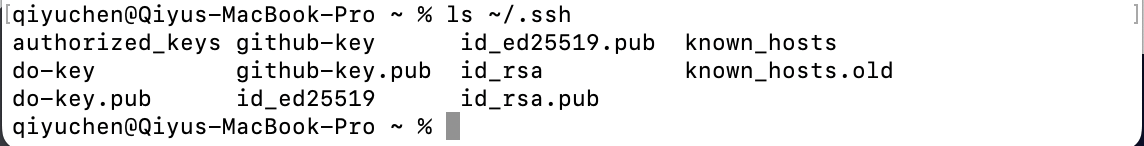
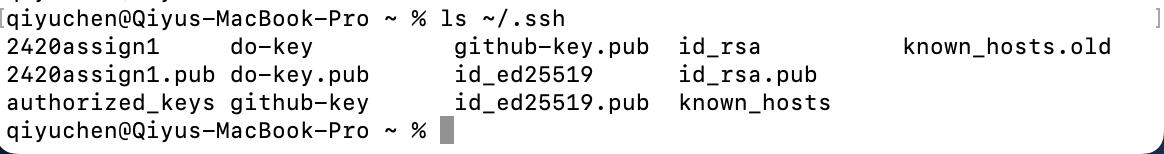
more changes for step 5

diff --git a/README.md b/README.md
@@ -1,5 +1,5 @@
-# 2420-Assignment-1 
----
+# ACIT 2420 Assignment 1 
+
 Name: Qiyu (Ivy) Chen  
 
 StudentID: A01338328
@@ -9,8 +9,6 @@ StudentID: A01338328
 # Setting up a  Remote Sever with DigitalOcean  
 
 ## Learning Objecitves:
-
-In this tutorial, you will be guided through the process of creating and managing a remote server using DigitalOcean. You will learn how to install and configure doctl on an existing droplet, generate SSH keys, and use them to securely connect to a remote server. Additionally, you will create a Droplet running Arch Linux, configure it with doctl and cloud-init, and apply best practices for server management and security.<mark>(to be changed)
 
  By compeleting this tutorial, you will learn: 
 
@@ -44,11 +42,13 @@ In this tutorial, you will be guided through the process of creating and managin
 
 3. Creating a Project and Droplet in DigitalOcean
 
-4. Installing `doctl` Command-line Tool
+4. Connect to Your Droplet via SSH
 
-5. Creating cloud-init file
+5. Installing `doctl` Command-line Tool
 
-6. Creating a Droplet Using doctl (with the cloud-init file)
+6. Creating cloud-init file
+
+7. Creating a Droplet Using doctl (with the cloud-init file)
 
 
 
@@ -79,12 +79,12 @@ To create a SSH key pair on your local machine:
 
 2. Run the following command to create your SSH key pair:
 ```
-ssh-keygen -t ed25519 -f ~/.ssh/do-key -C "your_email@example.com"
+ssh-keygen -t ed25519 -f ~/.ssh/2420assignment1 -C "your_email@example.com"
 ```
 
 t ed25519: Specifies the type of key to create (ed25519 is recommended for security).
 
-f ~/.ssh/do-key: Specifies the file in which to save the private key. The public key will be saved with the same name but with a .pub extension.
+f ~/.ssh/2420assignment1: Specifies the file in which to save the private key. The public key will be saved with the same name but with a .pub extension.
 
 C "your_email@example.com": Adds a label to your key, typically your email address. 
 
@@ -98,7 +98,9 @@ ls ~/.ssh
 Output will look like this  
 
 ![list key](assets/list-key.png)
-You should see `do-key` (the private key) and `do-key.pub` (the public key) listed.
+
+You should see **2420assign1** (the private key) and **2420assign1.pub** (the public key) listed.
+
 
 ## 2. Adding SSH Key to DigitalOcean
 
@@ -106,7 +108,7 @@ After creating your SSH key pair, the next step is to add the public key to your
 
 1. Copy your SSH public key: On your terminal, run the following command to direclty copy your public key:
 ```
-cat ~/.ssh/do-key.pub
+pbcopy < ~/.ssh/2420assign1.pub
 ```
 2. Once copied your key, log in to your [DigitalOcean](https://www.digitalocean.com/) account. 
 
@@ -132,86 +134,120 @@ To create project:
 2. In the **Project Name** field, enter a name for your project.
 - You can optionally add a description to help you remember what this project is about.
 
-3. Click **Create Projec** to save your new project.
+3. Click **Create Projec** to save your new project.  
 
-4. You should see your created project appear on the left side bar under **Projects** .
+4. You should see your created project appear on the left side bar under **Projects**.  
+
 ![project](assets/create-project.png)
 
 To created a droplet:
 
 1. From your project dashboard, click the **Create** button and select **Droplets** in the dropdown menu. 
 
-![create droplet](assets/create-droplet.png)
-
 2. In the **Choose Region** section, select a region that is geographically closest to you.
 
-![region](assets/region.png)
-
 3. Under the **Choose an image** section, select **Custom images**, click **Add image** and upload the Arch Linux that you have previously downloaded. 
-
-![image](assets/choose-image.png)
 
 4. In the **Choose a plan** section, select the plan that suits your needs. 
 
 5. Under the **Authentication** section, choose the **SSH Keys** option, and select the SSH key you added earlier from the list.
 
-![auth](assets/add-ssh-key.png)
-
 6. You can optionally choose additional settings like enabling backups, adding block based on your needs. 
 
 7. Click the **Create Droplet** button at the bottom when you’re satisfied with your settings. 
 
-8. You can view your droplet under **Resource** tab in your project homepage. 
+8. You can view your droplet under **Resource** tab in your project homepage.  
 
-![droplet](assets/create-droplet2.png)
+![droplet](assets/create-droplet.png)
 
-## 4. Installing `doctl` Command-line Tool
+## 4. Connect to Your Droplet via SSH
+
+After you have created a droplet you can connect to it via SSH by running the following command: 
+```
+ssh -i .ssh/2420assign1 arch@your-droplets-ip-address
+```
+- Replace **your-droplets-ip-address** with the actual ip adress that you just created from step 3.
+
+Output will look like this:
+
+![connect](assets/connet.png)
+
+
+## 5. Installing `doctl` Command-line Tool
 
 ### What is `doctl`
 
 - `doctl` is the official DigitalOcean command line interface (CLI). It allows you to interact with the DigitalOcean API via the command line. 
 
 ### Why Install `doctl`
-- It supports most functionality found in the control panel. You can create, configure, and destroy DigitalOcean resources like Droplets, Kubernetes clusters, firewalls, load balancers, database clusters, domains, and more.
-https://docs.digitalocean.com/reference/doctl/
+- With doctl, you can create, configure, and manage DigitalOcean resources like Droplets, Kubernetes clusters, firewalls, load balancers, database clusters, domains, and more. 
 
-1. To install the latest version of doctl using Homebrew on macOS, run:
-```
-brew install doctl
-```
-- You can check if doctl has been installed on your system, by running the following command in your terminal:
-```
-doctl version
-```
-![doctl](assets/view-doctl.png)
+1. Before installing doctl, make sure you have successfully connected to your Arch Linux droplet using your private key from Step 4.
 
-2. Create an API token
+2. Update the system package database and upgrade all the installed packages
+```
+sudo pacman -Syu
+```
+3. Install `doctl` from the Arch User Repository (AUR) using the `yay` package manager
+
+- Installs all the necessary tools required to build and install AUR packages.
+```
+sudo pacman -S --needed base-devel git
+```
+Output will look like this:
+
+![AUR](assets/doctl1.png)
+
+- Clone the `yay` AUR Repository to downloads the source code of the yay package to your local system.
+```
+git clone https://aur.archlinux.org/yay.git
+```
+- Navigate to the `yay` Directory to run the next command and build the yay package.
+```
+cd yay
+```
+- Build and Install yay
+```
+makepkg -si
+```
+Output will look like this:
+
+![yay2](assets/yay2.png)
+
+- Once you have `yay` installed, you can use it to install the doctl package from the AUR:
+```
+yay -S doctl
+```
+Output will look like this:
+
+![install](assets/instal-doctl.png)
+
+You may wonder why we are installing `doctl` using AUR and `yay`?
+
+-Since doctl is not included in the official Arch Linux repositories, we need to use the AUR to install it. AUR helpers like yay make it easier to install and manage these packages, so you don't have to manually download and compile them.
+
+4. Create an API token
 - Create a [DigitalOcean API token](https://docs.digitalocean.com/reference/api/create-personal-access-token/) for your account with read and write access from the Applications & API page in the control panel. The token string is only displayed once, so save it in a safe place
 
 ![token](assets/token.png)
 
-3. To initialize doctl with the API Token, run the following command:
+5. Initialize doctl with the API Token by running the following command:
 ```
 doctl auth init 
 ```
 You will be prompted to enter your API token. Paste the token you copied earlier into the terminal.
 
-![init doctl](assets/init-doctl.png)
+![init doctl](assets/auth.png)
 
-4. Validate that doctl is working
+6. Validate that doctl is working
 
 To confirm that you have successfully authorized doctl, review your account details by running:
 ```
 doctl account get
 ```
 If successful, the output looks like:
-```
-Email                      Droplet Limit    Email Verified    UUID                                        Status
-sammy@example.org          10               true              3a56c5e109736b50e823eaebca85708ca0e5087c    active
-```
-For example: 
 
-![doctl account](assets/doctl-account-get.png)
+![doctl account](assets/account.png)
 
 ## 5. Creating cloud-init file
 
@@ -222,11 +258,30 @@ For example:
 - Cloud-init allows us to set up a server with initial configurations quickly. For instance, after creating and connecting to servers, we often need to run a few commands to update and install packages. While this will not take long time for one server, configuring 10 or 100 servers can be time-consuming.
 - The easiest way to apply server configurations with cloud-init is through a config file, which is simply a YAML file. YAML is a human-friendly data serialization language for all programming languages.This allows for automated and consistent setup across multiple servers, saving time and reducing manual effort.
 
-1. To Create a Cloud-Init FIle:
-While logged into your droplet, use a text editor to create a new file named cloud-init.yaml. You can use nano, vim, or any other text editor you prefer. For example:
+ Before create a Cloud-Init file, If you do not have nano or vim installed, You can install one of these text editors using the package manager. Here’s how to do it:   
+ 1. Update the package list:
+ ```
+ sudo pacman -Syu
+```
+2. Install nano or vim:
+- To install nano, run:
+```
+sudo pacman -S nano
+```
+- To install vim, run"
+```
+sudo pacman -S vim
+```
+Now you can create the cloud-init file by running 
+```
+vim cloud-init.yaml
+```
+OR 
+
 ```
 nano cloud-init.yaml
 ```
+
 2. In the cloud-init.yaml file, you will define the settings you want for your droplet. Simply copy and paste the following example into your cloud-init configuration file and make changes as needed. 
 ```
 #cloud-config
